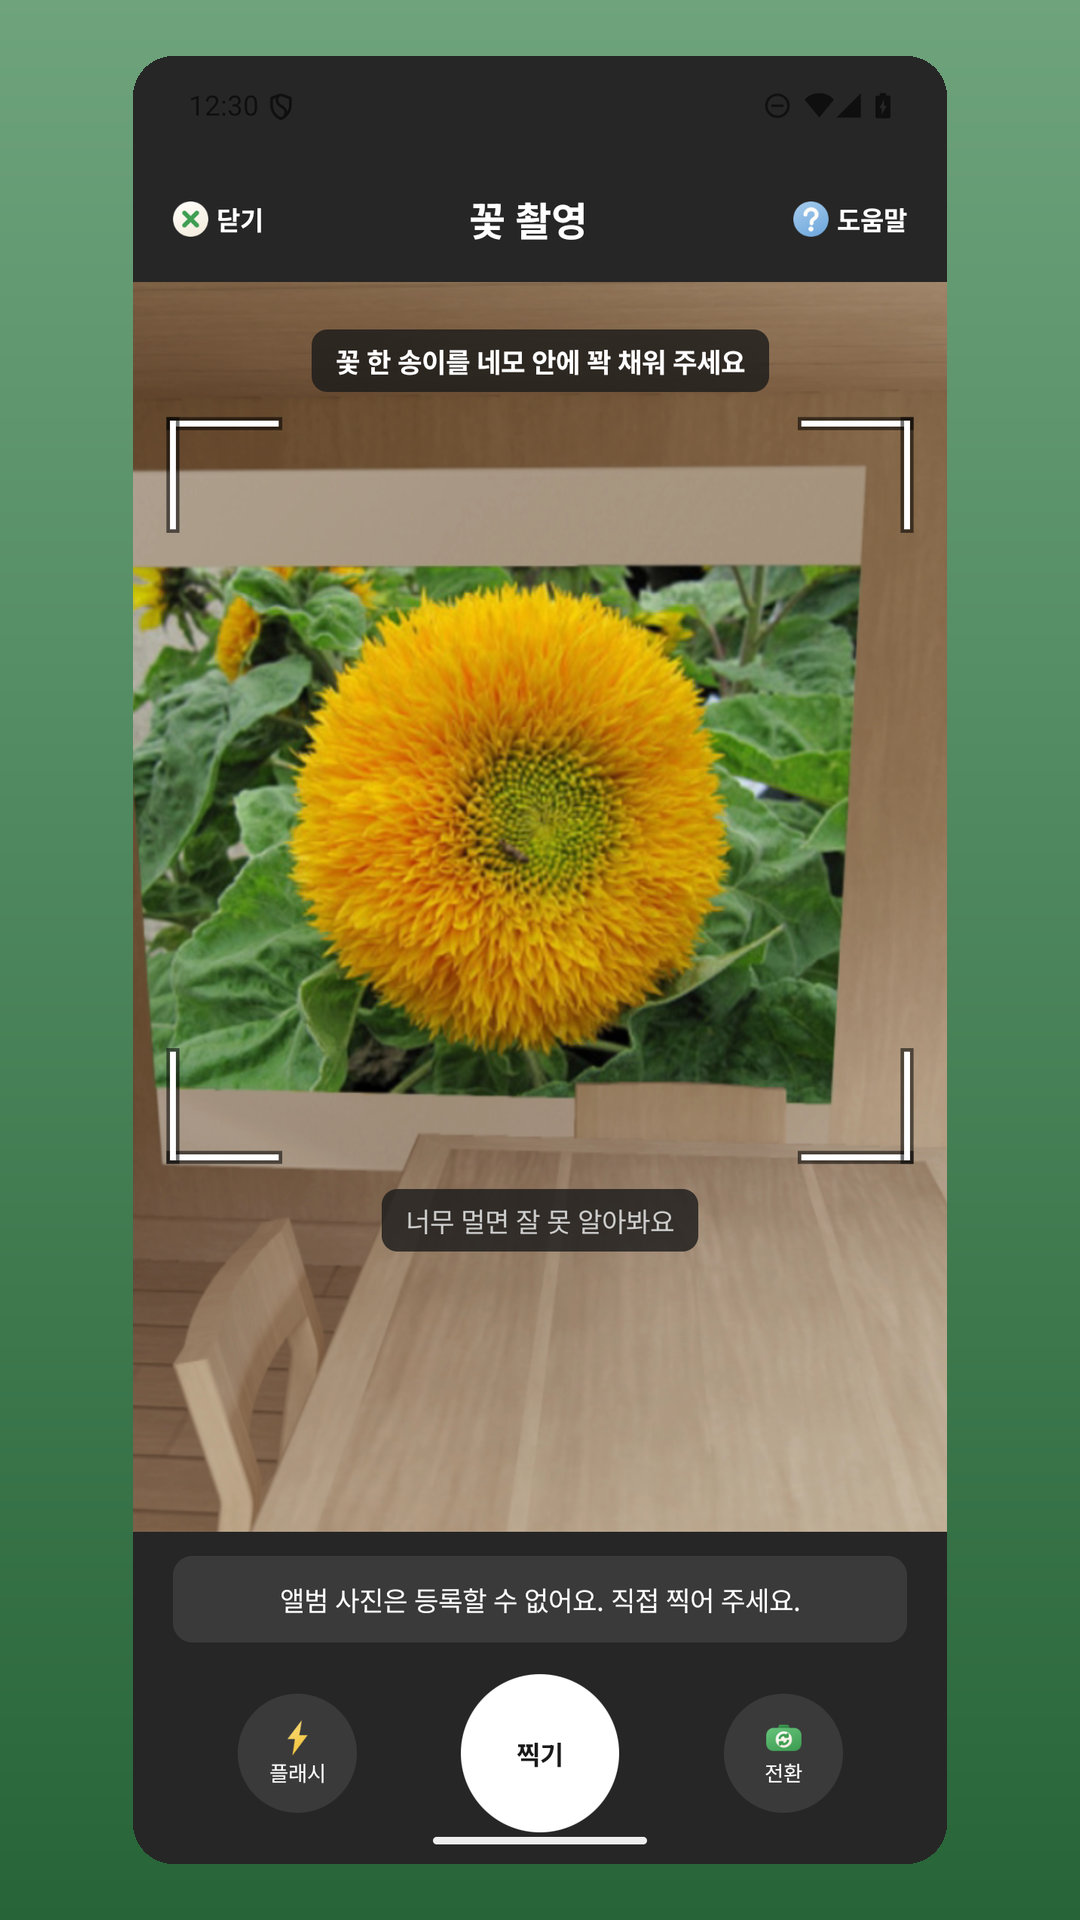
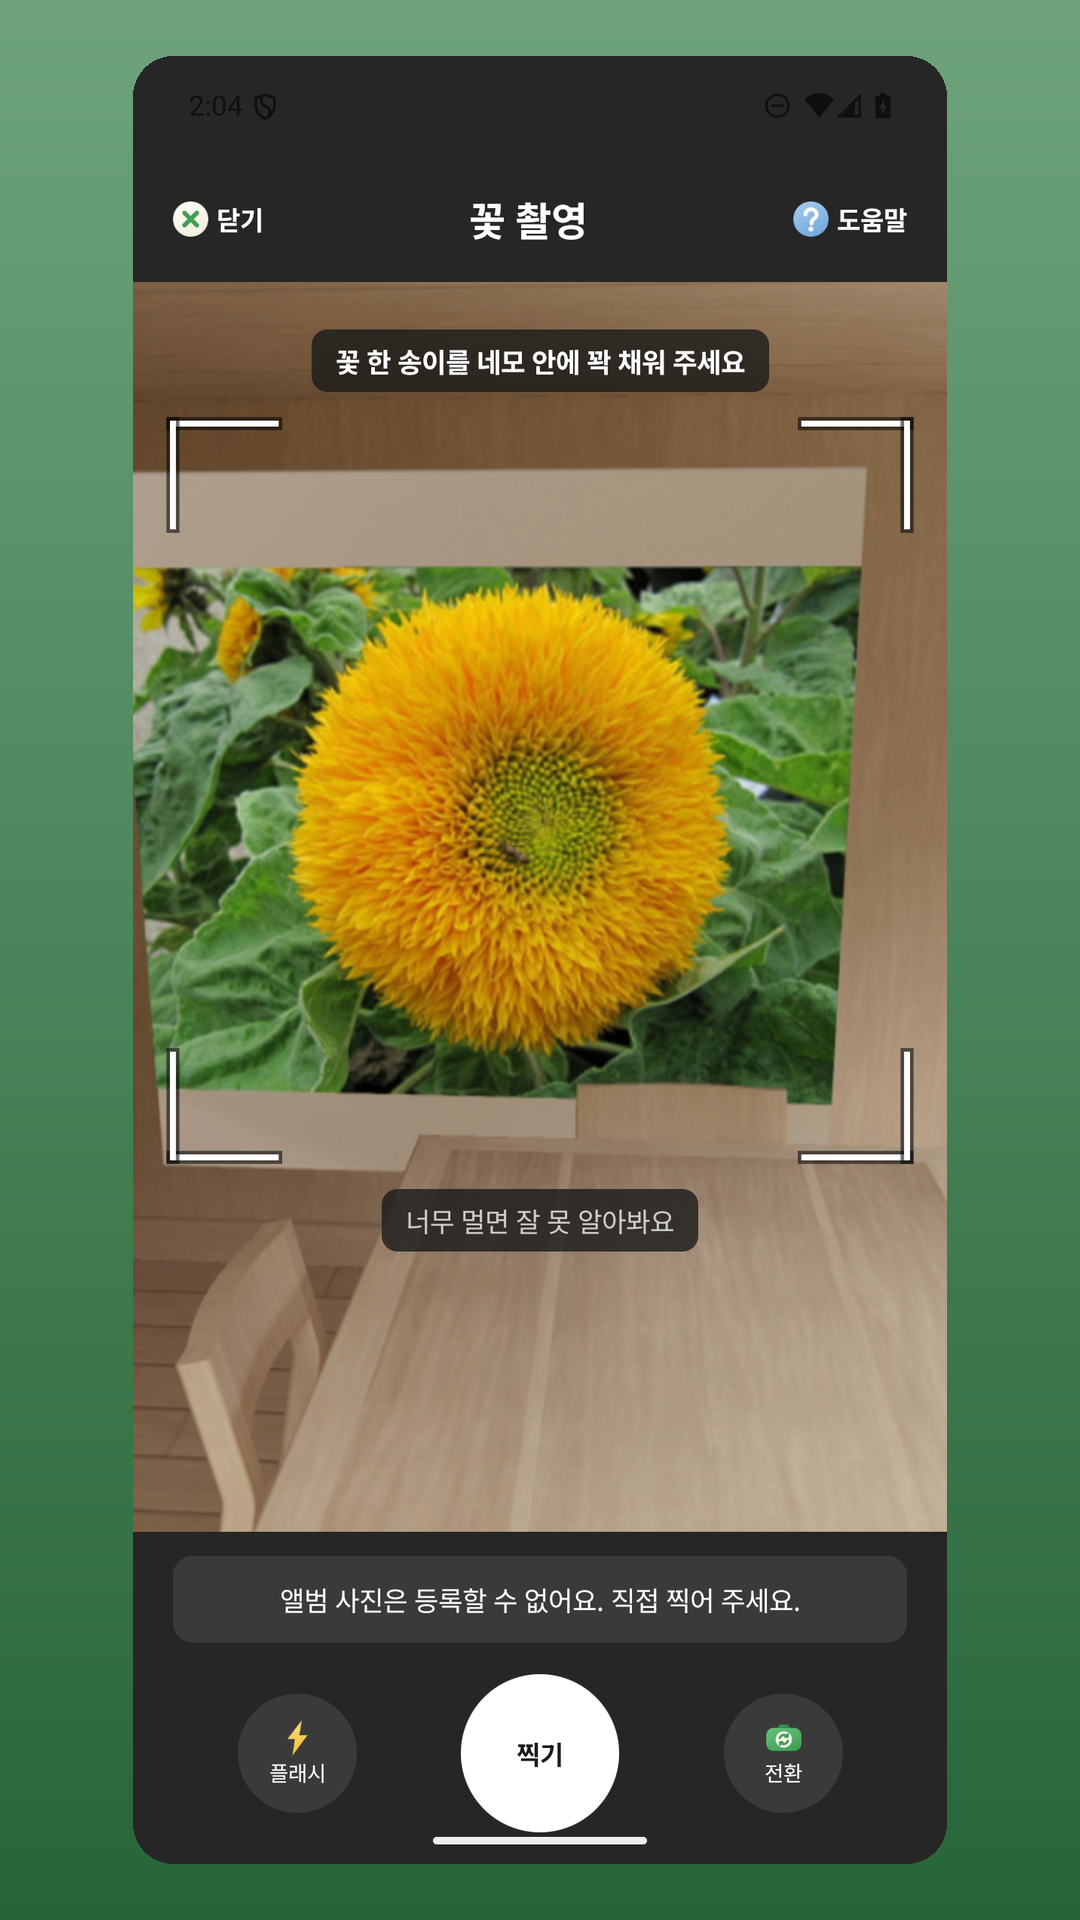
[AOS] 스토어 스크린샷 4장을 (83) 빌드에서 재촬영하고 눈으로 확인 ((84))
매니페스트 수정(기기 필터) 뒤에 만든 릴리스 산출물에서 다시 찍었다.
PlantNet 실호출 1건(무료 한도 안) · 4장 전부 1080×1920.

한 장씩 눈으로 봤다 — 대화상자 겹침·잘린 글자·어긋난 일러스트 0개.
규격 검사가 못 재는 층이고, 예전에 지도 오류 화면을 통과시킨 자리다.

⚠ 컷 2·3·4가 새 계정 숫자(1종 · 배지 0개 · 도감 0%)로 비어 보이는데
**채우지 않는다** — 여러 종을 모으면 일러스트 483조합 때문에 다른 종이
같은 그림으로 나란히 찍힌다((82)). 비어 보이는 쪽이 정직하다.

⚠ 컷 4(마이)의 흠 둘(익명 닉네임 `꽃친구fbcc` · 배지 0개)은 카카오
릴리스 키해시 하나에 같이 걸려 있다 — 등록되면 지도 컷이 그 자리를 대신한다.

문서: 출시준비_AOS.md 1절 · 스토어_등록정보.md 7절(표의 화면 순서가
틀려 있었다 — 1번은 도감이 아니라 촬영이다) · 세션시작_AOS.md · 진행.md (84)

diff --git a/프로젝트 맥락/출시준비_AOS.md b/프로젝트 맥락/출시준비_AOS.md
@@ -39,17 +39,31 @@
 | 다운로드 크기 상한 | 🔵 58.4~64.7MB / 200MB | 같은 스크립트 (bundletool) |
 | 스토어 등록정보·데이터 보안·IARC 답안 | 🔵 초안 완성 | `출시/스토어_등록정보.md` 1~6절 |
 | 앱 아이콘 512 · 그래픽 이미지 1024×500 | 🔵 | `출시/스토어_그래픽/` |
+| 휴대전화 스크린샷 4장 (최소 2 · 추천 요건 4) | 🔵 (83) 빌드 · **눈으로 봤다** | 1080×1920 · 아래 "아직 못 채운 것"에 흠 2개 |
 | 권한 집합 = 데이터 보안 양식 | 🔵 실측 | `check_release_artifact.py` · 6개(신고 대상 5 + 서명 1) · **광고 ID 권한 없음** |
 | 기기 카탈로그 필터 | 🔵 **고쳤다**(2026-08-17) | 필수 기능이 `camera.any` + `faketouch` **둘뿐**이다 (아래 3절) |
 | 크래시 난독화 해제 | 🔵 실측 | AAB 안에 `BUNDLE-METADATA/…/proguard.map`(압축 4.0MB) — **따로 올릴 것이 없다** |
 
 ### 아직 못 채운 것 (오너 값과 무관하게 내가 해야 하는 것)
 
-- 🔴 **휴대전화 스크린샷 재촬영.** 지금 4장은 **2026-08-17 수정 전 릴리스 빌드**에서
-  찍은 것이다(랭킹 `내 순위 -` 결함이 살아 있던 빌드). 최종 업로드 빌드에서 다시 찍는다.
+- 🔵 **휴대전화 스크린샷 4장은 (83) 빌드에서 다시 찍었다**(2026-08-17 02:05 · 매니페스트
+  수정 뒤에 만든 릴리스 산출물). **네 장을 눈으로 봤다** — 규격 검사가 못 재는 것이 그것이다.
   `python3 출시/_tools/capture_play_screenshots.py`
+  - 🔵 컷 1 촬영 · 컷 2 도감 · 컷 3 발견 기록: 대화상자 겹침 없음 · 잘린 글자 없음 ·
+    **그림이 어긋난 프레임 0개**(해바라기 한 종만 모으는 이유가 그것이다).
+  - ⚠ **컷 2·3·4가 "1종 · 1회 · 배지 없음 · 도감 0%"인 새 계정 화면이다.** 사실이지만
+    비어 보인다. 🔴 **채우려고 여러 종을 모으면 안 된다** — 일러스트가 (형태,색) 483조합
+    렌더라 도감 `최근 발견한 꽃`에 **다른 종이 같은 그림으로** 나란히 찍힌다(진행.md (82)).
+    10종을 모아 첫 배지를 띄우는 것도 같은 이유로 막힌다. **비어 보이는 쪽이 정직하다.**
+  - ⚠ **컷 4(마이)의 흠 두 개는 오너 항목 하나에 같이 걸려 있다** — 닉네임이
+    `꽃친구fbcc`(익명 세션에 서버가 준 이름)이고 배지가 0개다. 닉네임 변경은 **로그인
+    게이트 0회**라 카카오 로그인이 필요하고, 릴리스 서명의 키해시가 콘솔에 없어서 지금
+    로그인이 안 된다. **키해시가 등록되면 지도 컷이 들어와 컷 4를 대신한다** — 그때
+    같이 해결된다(그 전에 손대지 않는다).
 - ⚠ **지도 프레임이 없다.** 지도는 카카오 키해시가 등록될 때까지 401이라 찍을 수 없다 —
-  그래서 4번째 칸이 `마이`로 대신 들어가 있다(`스토어_등록정보.md` 7절에 적어 둘 것).
+  그래서 4번째 칸이 `마이`로 대신 들어가 있다(`스토어_등록정보.md` 7절에 적어 뒀다).
+  🔵 예전 판은 지도 **오류 화면**(`연결이 불안정해요…`)을 찍어 올렸다 — 지금은
+  `map_gate()`가 401이면 **찍지도 않는다**.
 - ⚠ **랭킹 프레임은 공개 대상이 아니다.** 지금 동네 순위에 들어 있는 것은 전부
   테스트 계정(`꽃친구*`)이다. 오너가 프로덕션을 비우기 전에는 스크린샷에 못 쓴다.
 
